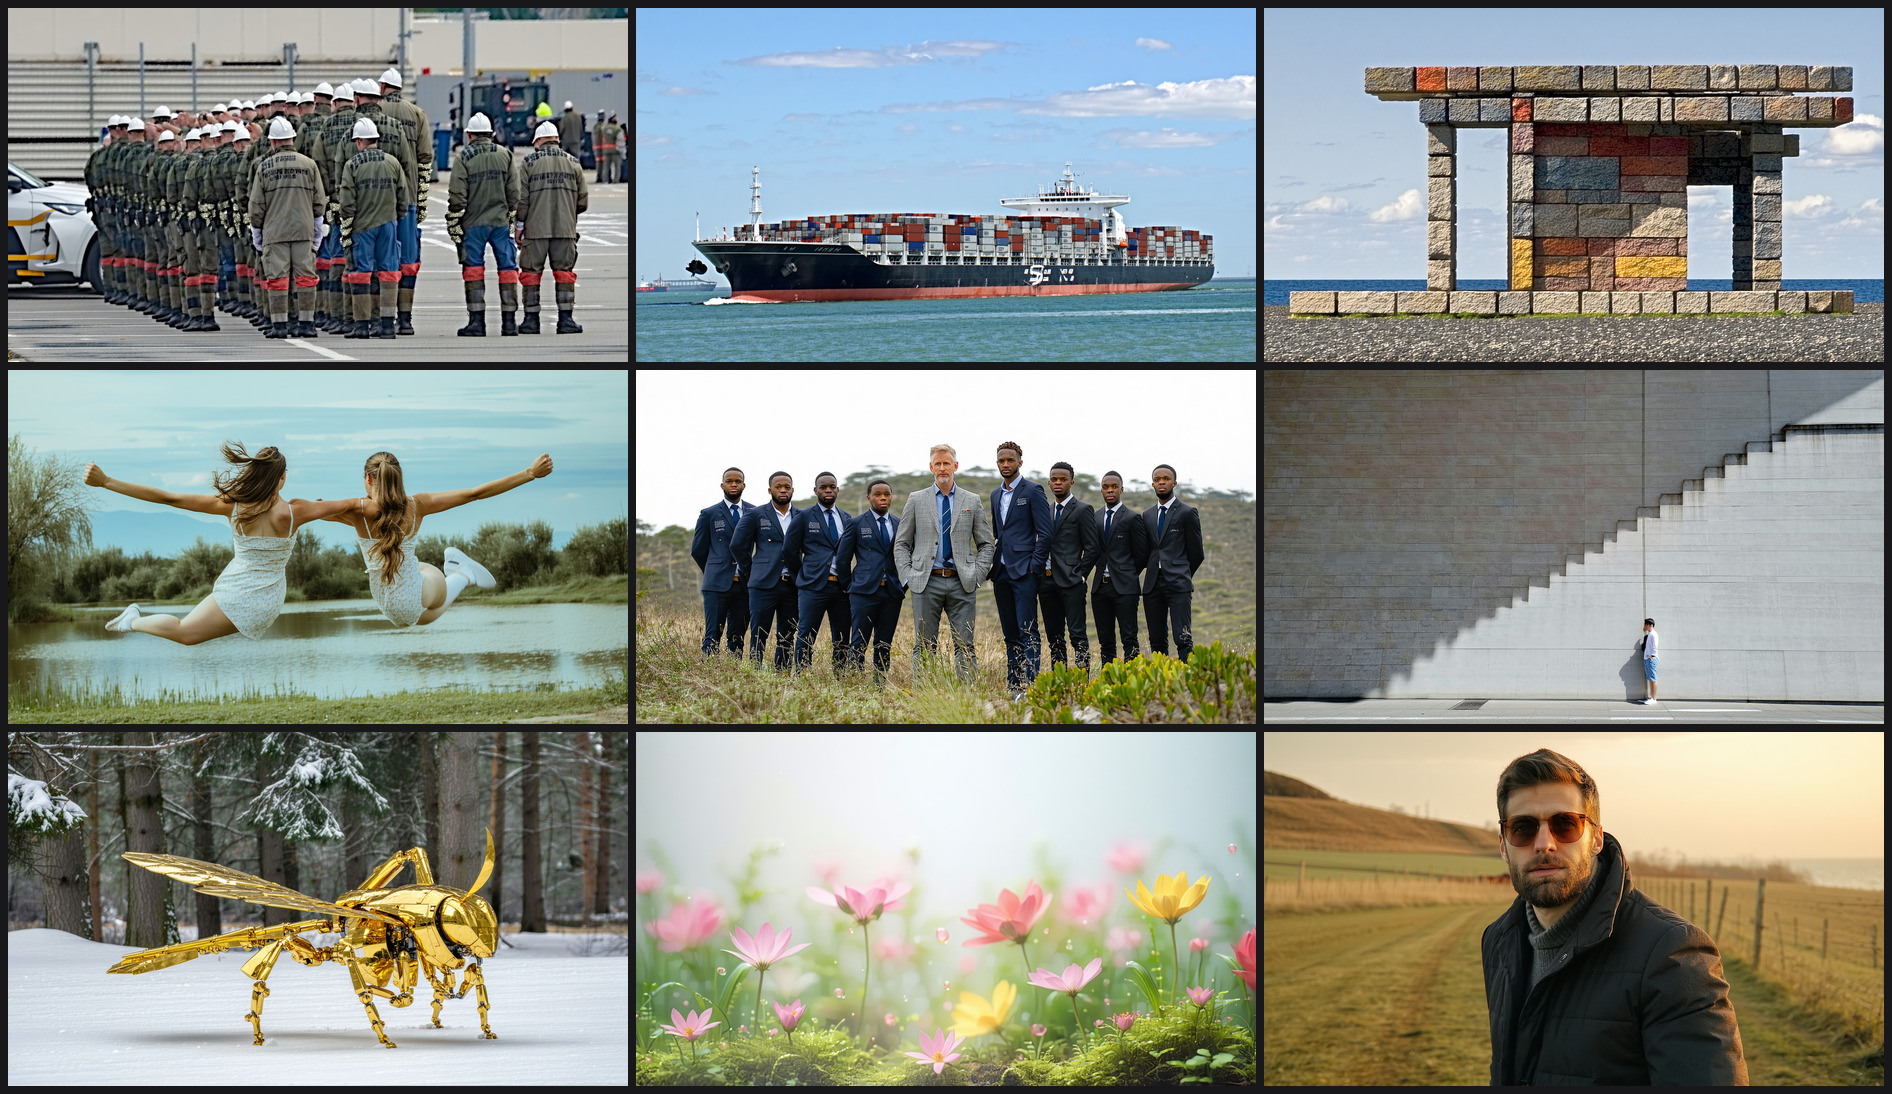
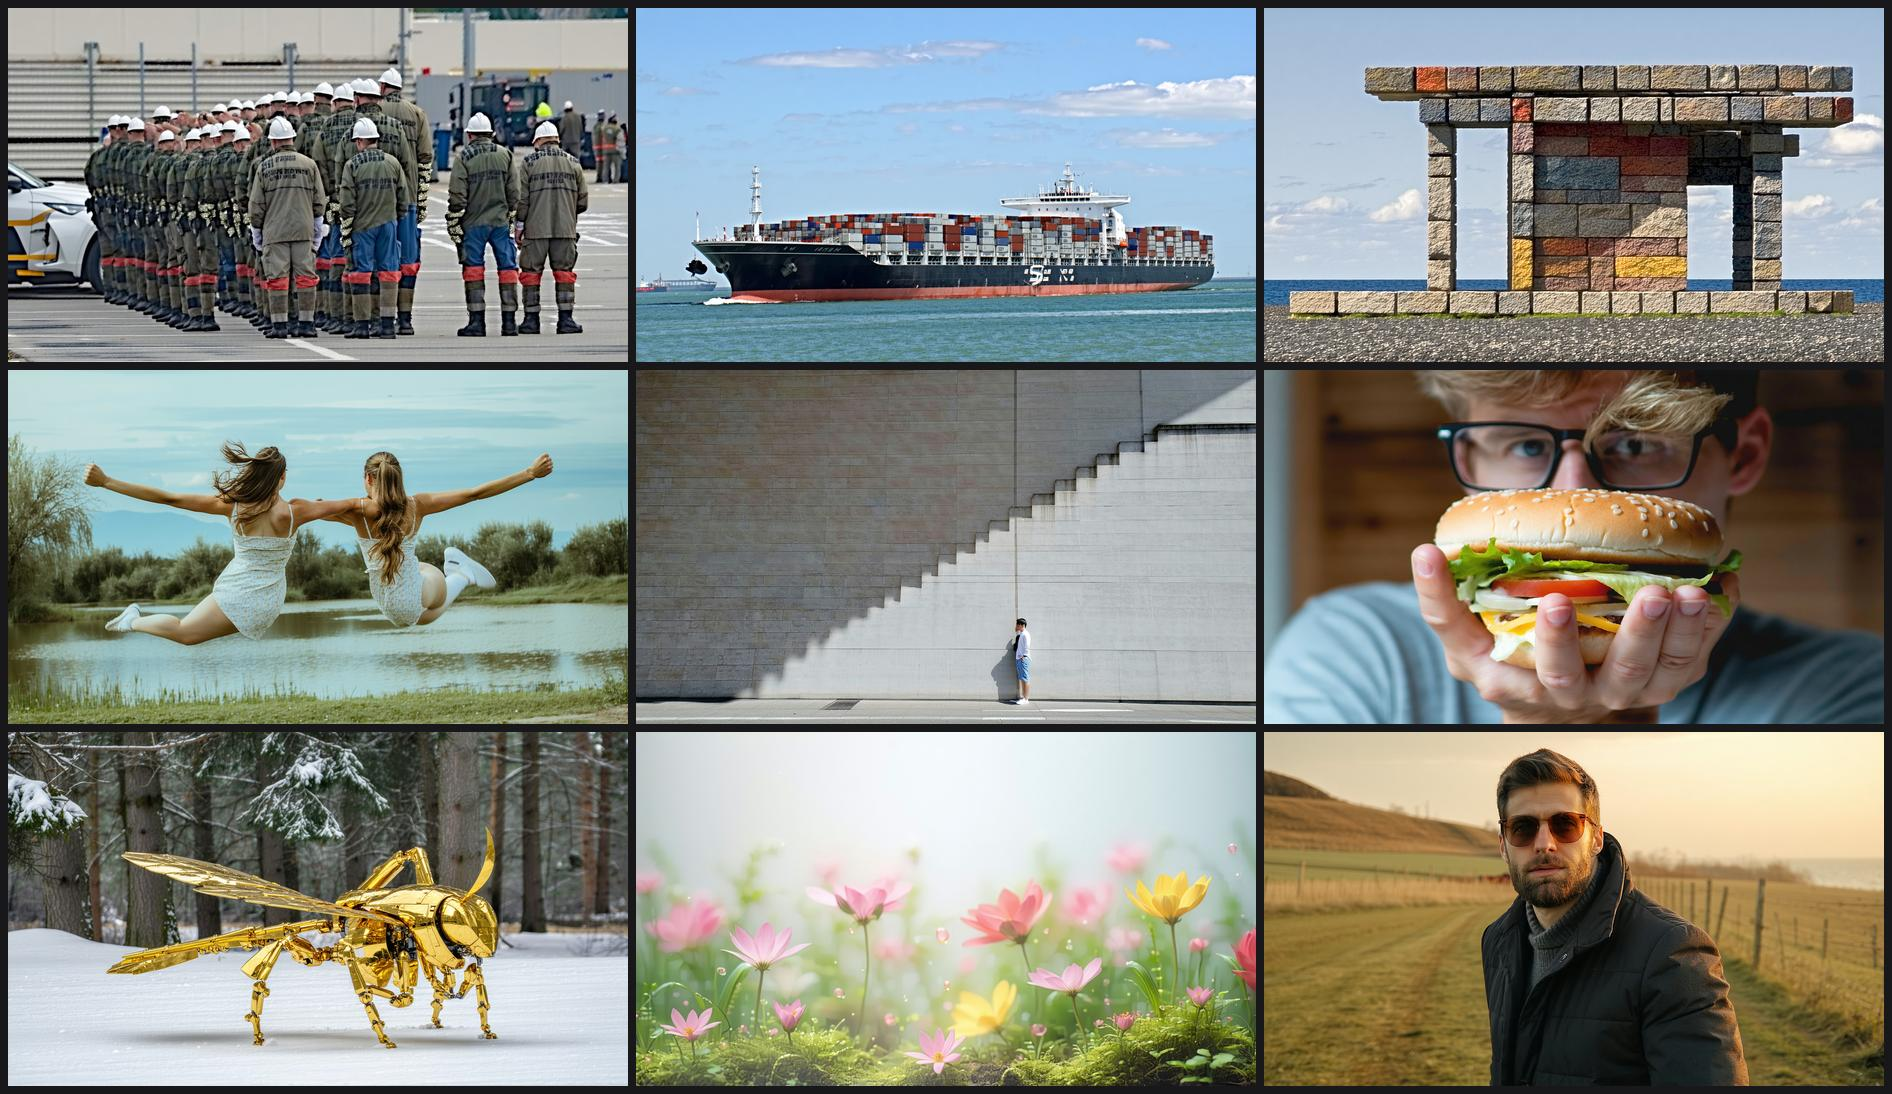
Swap one image, check the licences properly 📜
- Regenerate the Stability UUID sample whose composition read as a loaded
  trope, and rebuild that contact sheet. The replacement is a man holding a
  cheeseburger, which is exactly as arbitrary as everything else here 🍔
- Add proper attribution for all three models, including the "Powered by
  Stability AI" notice their Community License asks for
- Record what each provider's terms actually say about output ownership:
  Google treats output as Customer Data and claims no ownership, OpenAI
  assigns all right title and interest, Stability says you own the outputs
  under a $1M revenue threshold
- Note the two wrinkles: AI output may not attract copyright at all in some
  jurisdictions, and Bedrock-hosted third-party models are Third-Party
  Content with their own EULA, which is not the same as self-hosting weights

Nine random UUIDs in and the model finally produced something nobody could
possibly be offended by, unless they are a vegetarian. 🥬

diff --git a/README.md b/README.md
@@ -369,15 +369,35 @@ The models treating it as one may say more about our prompt than about them.
 
 ---
 
-## Licence and the images
+## Licence, attribution and the images
 
 The code is MIT — see [LICENSE](LICENSE).
 
-The images are model output, generated by Gemini 3 Pro Image, gpt-image-2 and
-Stable Diffusion 3.5 Large in September 2026. Each provider's own terms govern
-what you may do with output from their model, so check those rather than
-assuming the MIT licence covers the pictures too. They are included here as
-evidence for the write-up.
+The images are model output, generated in September 2026 by:
+
+- **Gemini 3 Pro Image** (`gemini-3-pro-image`), Google, via Vertex AI
+- **gpt-image-2**, OpenAI
+- **Stable Diffusion 3.5 Large**, Stability AI, via Amazon Bedrock
+
+Powered by Stability AI.
+
+All three providers assign output ownership to the user. Google does not claim
+ownership of Generated Output and treats it as Customer Data under the Google
+Cloud Service Specific Terms. OpenAI's Terms of Use assign the customer "all
+our right, title, and interest, if any, in and to Output". Stability AI's
+Community License states "You own any outputs generated from the Models or
+Derivative Works to the extent permitted by applicable law", and permits
+commercial use below USD $1M annual revenue.
+
+Two caveats worth knowing if you reuse this pattern. Purely AI-generated output
+may not attract copyright protection at all in some jurisdictions, which is a
+separate question from who owns it. And Stable Diffusion here was accessed as a
+hosted service through Amazon Bedrock, where third-party models are Third-Party
+Content under the AWS Service Terms and may carry the seller's own EULA — not
+identical to self-hosting the weights under the Community License.
+
+None of this is legal advice; check the current terms yourself before reusing
+anything here.
 
 Everything under `images/` is 16:9 JPEG converted from the original PNGs, which
 kept the repository to a sensible size but also stripped any C2PA provenance
